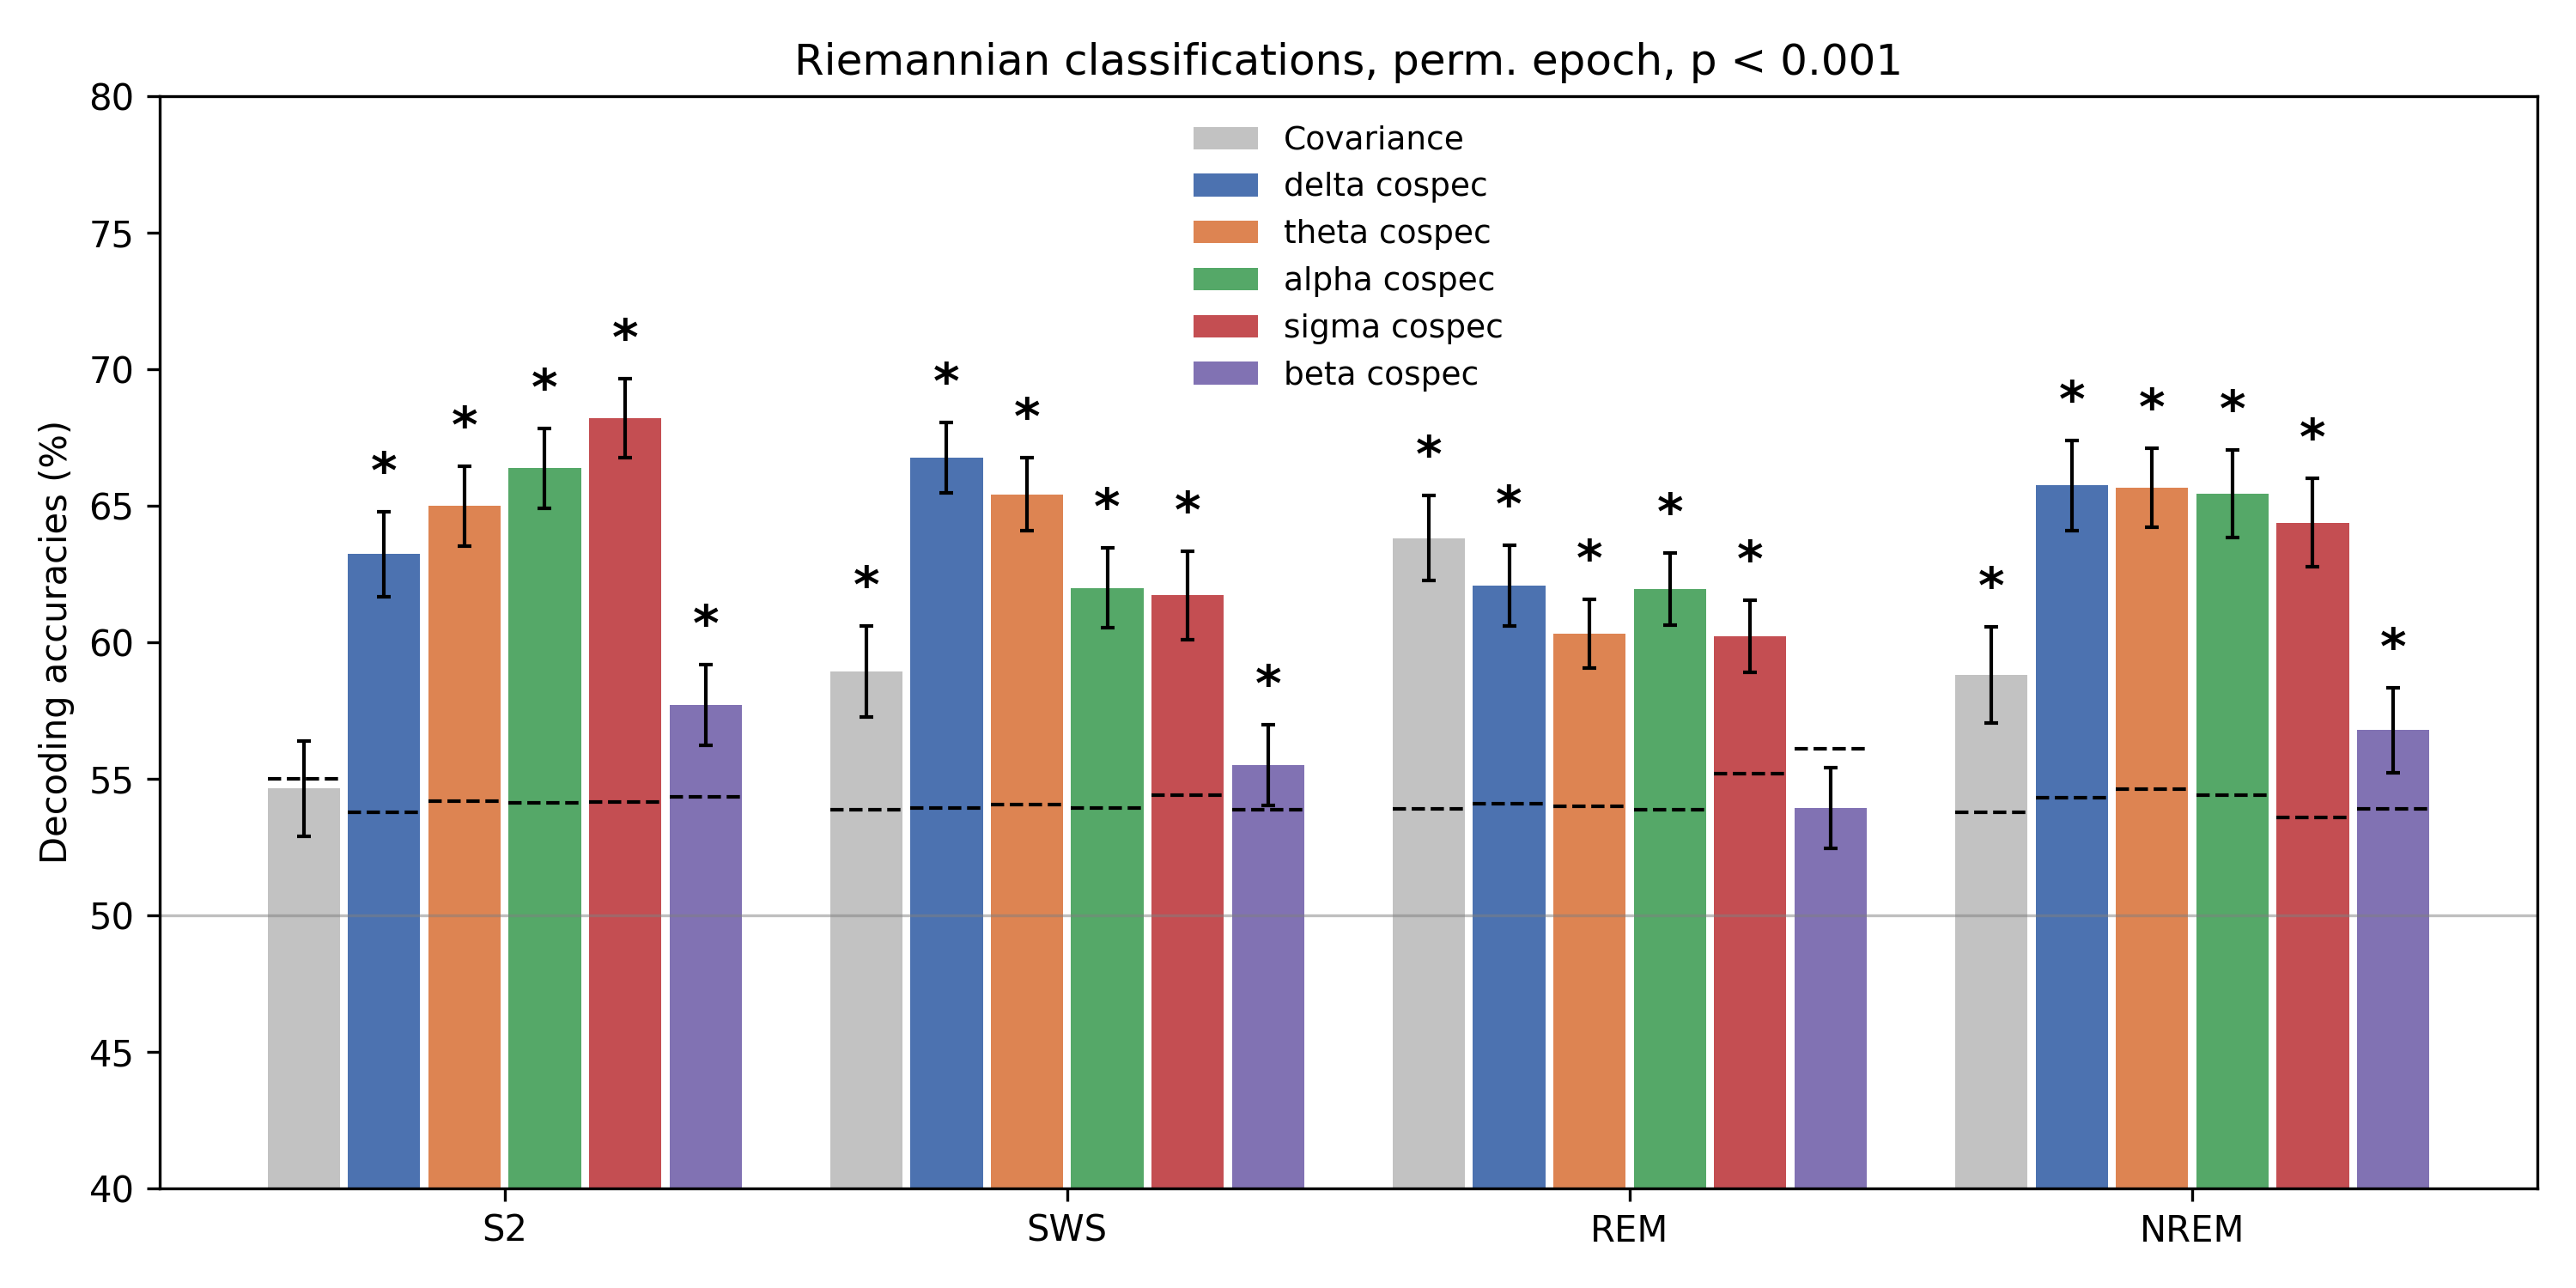
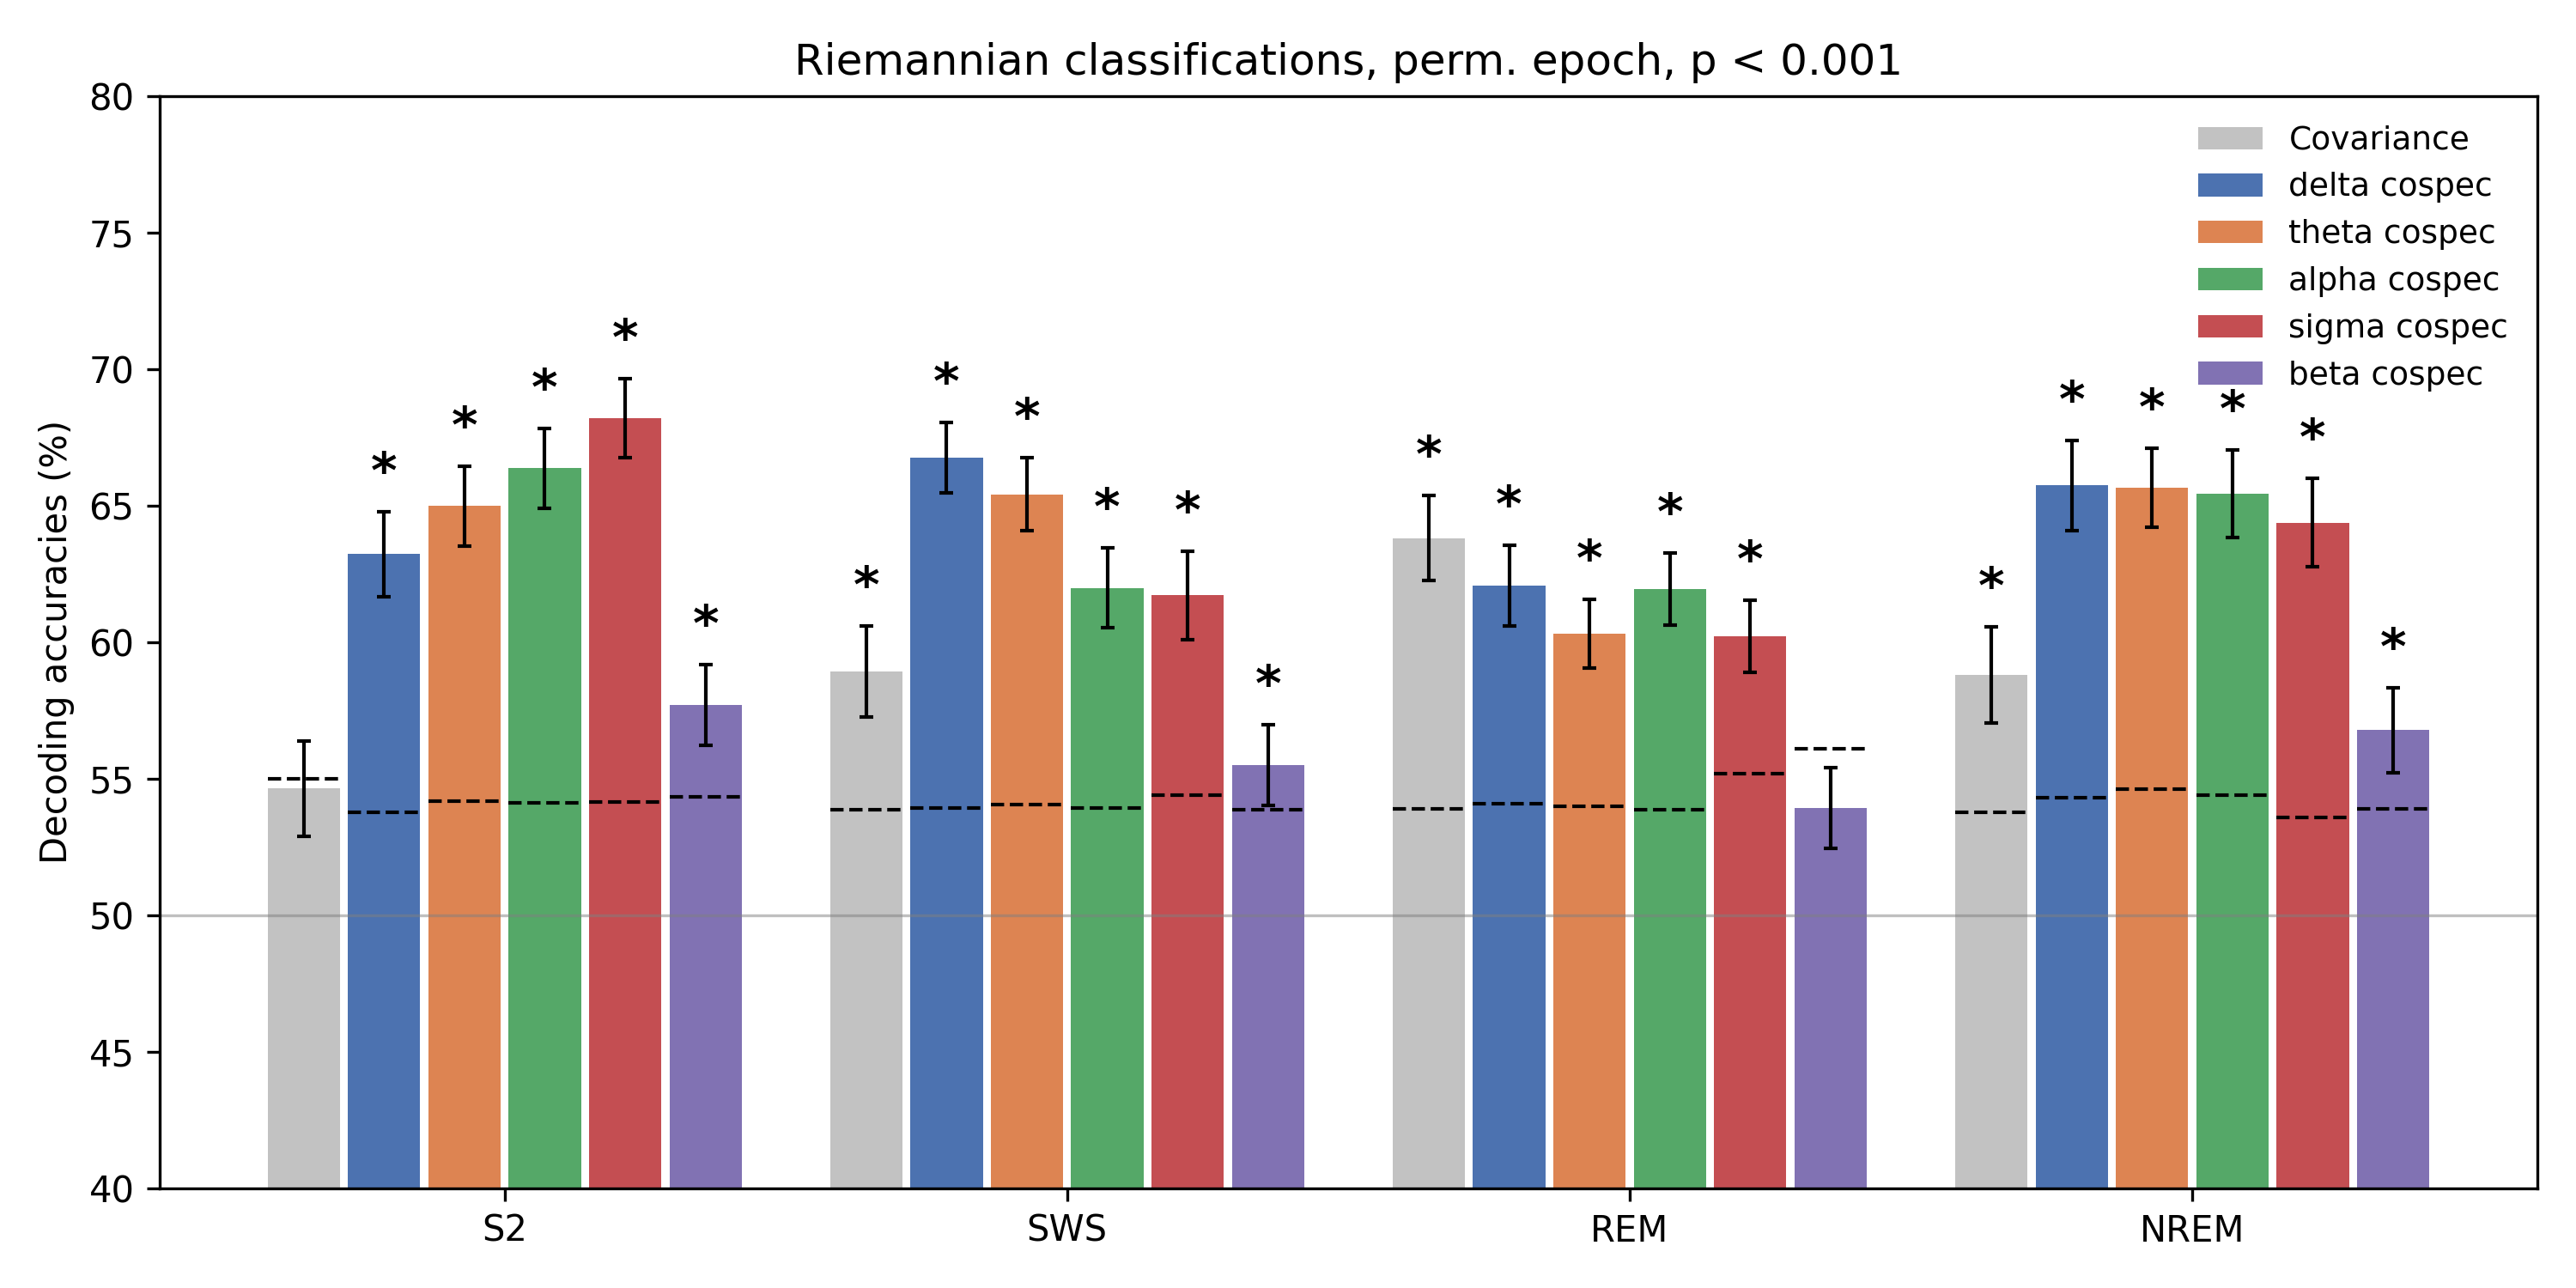
plot update

Changed region(s): [[0.837, 0.092, 0.961, 0.3067], [0.465, 0.092, 0.589, 0.3067]]

diff --git a/recompute_ttest_fig3.py b/recompute_ttest_fig3.py
@@ -102,6 +102,22 @@ E5. BANDES : alpha (8-13) et sigma (11-16) SE CHEVAUCHENT (11-13 Hz communs). C'
     decoupage d'Arthur (identique dans le PDF), donc fidele, mais a garder en tete :
     les t-values alpha et sigma ne sont pas independantes sur 11-13 Hz. Non corrige
     (fidelite a Arthur).
+
+E6. BIAIS DE SIGNE DU TWO-TAILED D'ARTHUR (ecart reel, NON reproduit par defaut).
+    Dans compute_pvalues (ttest_perm_indep.py), Arthur applique abs() a la
+    distribution nulle (perm_t = abs(perm_t)) mais compare la statistique OBSERVEE
+    SIGNEE (boucle : if tstat <= t_perm). Comme la nulle est en valeur absolue
+    (toujours >= 0), une electrode a effet negatif (t_obs < 0, i.e. HR < LR) verifie
+    t_obs <= |t_perm| pour PRESQUE TOUTES les permutations -> p ~ 1. Son "two-tailed"
+    ne detecte donc en pratique QUE les effets HR > LR ; tout effet HR < LR est
+    invisible. C'est une erreur de signe (le abs() manque sur l'observe), pas une
+    convention. NOTRE DEFAUT compare |t_obs| a |t_perm| (two-tailed symetrique,
+    correct). Le flag --arthur-pval-bug reproduit son comportement a l'identique,
+    UNIQUEMENT pour la section "reproduction" (comparaison figure a figure), jamais
+    comme resultat. C'est la cause principale des differences visuelles sur la colonne
+    t-values entre sa Fig.3 et la notre (sur ses vraies donnees le z-score par sujet
+    met les t a ~0 et masque le bug ; il ne devient visible que sur PSD brute, donc
+    dans notre replique).
 ================================================================================
 
 Entrees : {save_path}/psd_{band}/psd_{band}_s{XX}_S2.npz (cle "data", (n_epochs, 19)).
@@ -169,6 +185,11 @@ def parse_args():
                    help="IDs sujets a exclure, separes par virgule (ex '10' pour "
                         "coller a Arthur qui retire le sujet 10 / artefact FC2).")
     p.add_argument("--seed", type=int, default=0)
+    p.add_argument("--arthur-pval-bug", action="store_true", default=False,
+                   help="Reproduit le biais de signe two-tailed d'Arthur (cf E6) : "
+                        "abs() sur la nulle seulement, observe signe. Les effets "
+                        "HR<LR deviennent invisibles. UNIQUEMENT pour repliquer sa "
+                        "Fig.3 a l'identique, jamais comme resultat.")
     p.add_argument("--overwrite", action="store_true", default=False)
     return p.parse_args()
 
@@ -284,12 +305,36 @@ def _perm_indices(n_samples, n_cond1, n_perm, seed):
     return [rng.choice(n_samples, size=n_cond1, replace=False) for _ in range(n_perm)]
 
 
-def ttest_maxstat(cond1, cond2, n_perm, two_tailed, seed, n_jobs):
+def ttest_maxstat(cond1, cond2, n_perm, two_tailed, seed, n_jobs,
+                  arthur_pval_bug=False):
+    """t-test maxstat par permutation, deux modes de p-value two-tailed.
+
+    arthur_pval_bug=False (DEFAUT, correct) : two-tailed symetrique. On compare
+        |t_obs| au max sur electrodes de |t_perm|. Un effet fort dans un sens ou
+        dans l'autre (HR>LR ou HR<LR) est detecte de facon identique.
+
+    arthur_pval_bug=True (REPLIQUE EXACTE Arthur, cf E6) : reproduit le biais de
+        signe de compute_pvalues (ttest_perm_indep.py). Arthur applique abs() a la
+        distribution nulle mais PAS a la statistique observee, et compte
+        tstat <= t_perm. Consequence : pour une electrode a effet negatif
+        (t_obs<0), la condition t_obs <= |t_perm| est vraie pour presque toutes
+        les permutations -> p ~ 1, l'effet HR<LR devient invisible. Son two-tailed
+        se comporte donc comme un one-tailed HR>LR. A n'utiliser QUE pour
+        reproduire sa Fig.3 a l'identique, jamais comme resultat.
+    """
     tval = ttest_ind(cond1, cond2, equal_var=False)[0]
     full = np.vstack((cond1, cond2))
     idxs = _perm_indices(len(full), len(cond1), n_perm, seed)
     perm_t = Parallel(n_jobs=n_jobs)(delayed(_ttest_perm)(full, ix) for ix in idxs)
     perm_t = np.asarray(perm_t)
+
+    if arthur_pval_bug and two_tailed:
+        # Reproduction fidele du bug : abs() sur la nulle SEULEMENT, observe signe,
+        # inegalite tstat <= t_perm (comme la boucle de compute_pvalues d'Arthur).
+        perm_max = np.abs(perm_t).max(axis=1)                 # max_elec |t_perm|
+        num = (perm_max[:, None] >= tval[None, :]).sum(axis=0).astype(float)
+        return tval, num / n_perm
+
     stat = np.abs(tval) if two_tailed else tval
     perm_stat = np.abs(perm_t) if two_tailed else perm_t
     perm_max = perm_stat.max(axis=1)
@@ -322,16 +367,22 @@ def main():
         n2 = conds[BANDS[0]][1].shape[0]
         print(f"  niveau epoch : {n1} epochs HR vs {n2} epochs LR (n total={n1+n2})")
 
+    if args.arthur_pval_bug:
+        print("  [MODE ARTHUR] biais de signe two-tailed active (E6) : "
+              "effets HR<LR invisibles. Replique exacte, PAS un resultat.")
+
     tvals, pvals = {}, {}
     if args.maxstat_scope == "electrodes":
         for b in BANDS:
             c1, c2 = conds[b]
-            tv, pv = ttest_maxstat(c1, c2, args.n_perm, True, args.seed, args.n_jobs)
+            tv, pv = ttest_maxstat(c1, c2, args.n_perm, True, args.seed, args.n_jobs,
+                                   arthur_pval_bug=args.arthur_pval_bug)
             tvals[b], pvals[b] = tv, pv
     else:
         c1 = np.concatenate([conds[b][0] for b in BANDS], axis=1)
         c2 = np.concatenate([conds[b][1] for b in BANDS], axis=1)
-        tv, pv = ttest_maxstat(c1, c2, args.n_perm, True, args.seed, args.n_jobs)
+        tv, pv = ttest_maxstat(c1, c2, args.n_perm, True, args.seed, args.n_jobs,
+                               arthur_pval_bug=args.arthur_pval_bug)
         for i, b in enumerate(BANDS):
             tvals[b] = tv[i * N_EEG:(i + 1) * N_EEG]
             pvals[b] = pv[i * N_EEG:(i + 1) * N_EEG]
@@ -357,6 +408,7 @@ def main():
         maxstat_scope=args.maxstat_scope,
         drop_subjects=sorted(drop_ids),
         two_tailed=True,
+        arthur_pval_bug=args.arthur_pval_bug,
     )
     print(f"\nSauvegarde : {out}")
     m, s = divmod(int(time() - t0), 60)

diff --git a/plot_fig3_arthur_topomaps.py b/plot_fig3_arthur_topomaps.py
@@ -176,9 +176,9 @@ def main():
                                       vlim=(tvals_z.min(), tvals_z.max()),
                                       extrapolate="head", sphere=0.11, contours=0,
                                       mask=mask_t,
-                                      mask_params=dict(marker="*", markerfacecolor="k",
-                                                       markeredgecolor="k", markersize=7,
-                                                       linewidth=0))
+                                      mask_params=dict(marker="*", markerfacecolor="w",
+                                                       markeredgecolor="k", markersize=9,
+                                                       markeredgewidth=0.3, linewidth=0))
         ims[2] = im2
         # col 3 : LDA
         if b in lda:
@@ -201,7 +201,7 @@ def main():
                                           mask_params=dict(marker="*",
                                                            markerfacecolor="w",
                                                            markeredgecolor="k",
-                                                           markersize=7, linewidth=0))
+                                                           markersize=9, markeredgewidth=0.3, linewidth=0))
             ims[3] = im3
         else:
             axes[r, 3].axis("off")
@@ -217,7 +217,7 @@ def main():
             cax = fig.add_axes([0.13 + c * 0.205, 0.06, 0.13, 0.012])
             fig.colorbar(ims[c], cax=cax, orientation="horizontal", label=label)
 
-    fig.suptitle(f"Fig. 3 (Arthur chap.1) — HR vs LR, {args.state}  "
+    fig.suptitle(f"Fig. 3 (Arthur chap.1), HR vs LR, {args.state}  "
                  f"(stars: p<{args.alpha}, maxstat)", fontsize=12, y=0.99)
     fig.subplots_adjust(bottom=0.11, hspace=0.15, wspace=0.05)
     args.out.parent.mkdir(parents=True, exist_ok=True)

diff --git a/plot_barplot_riemann_arthur.py b/plot_barplot_riemann_arthur.py
@@ -172,7 +172,8 @@ def main() -> None:
     ax.axhline(50, color="gray", lw=0.8, alpha=0.5)  # niveau de chance
 
     if bars:
-        ax.legend(bars, legend_labels, frameon=False, fontsize=9)
+        ax.legend(bars, legend_labels, frameon=False, fontsize=9,
+                  loc="upper right", bbox_to_anchor=(1.0, 1.0))
 
     args.out_dir.mkdir(parents=True, exist_ok=True)
     out = args.out_dir / f"barplot_riemann_{args.perm_scheme}_p{args.alpha}.png"